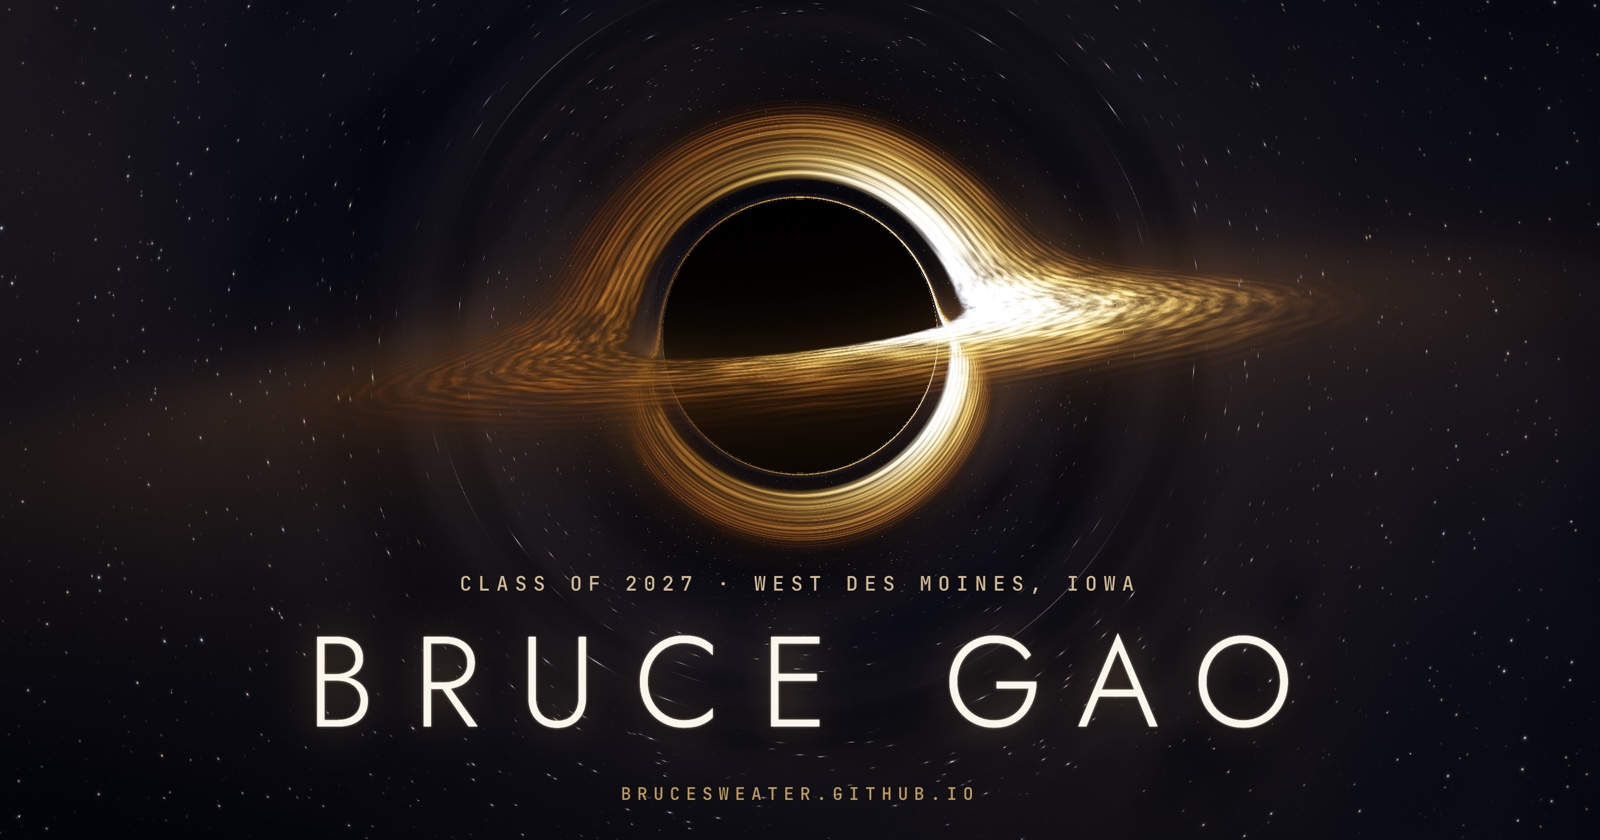
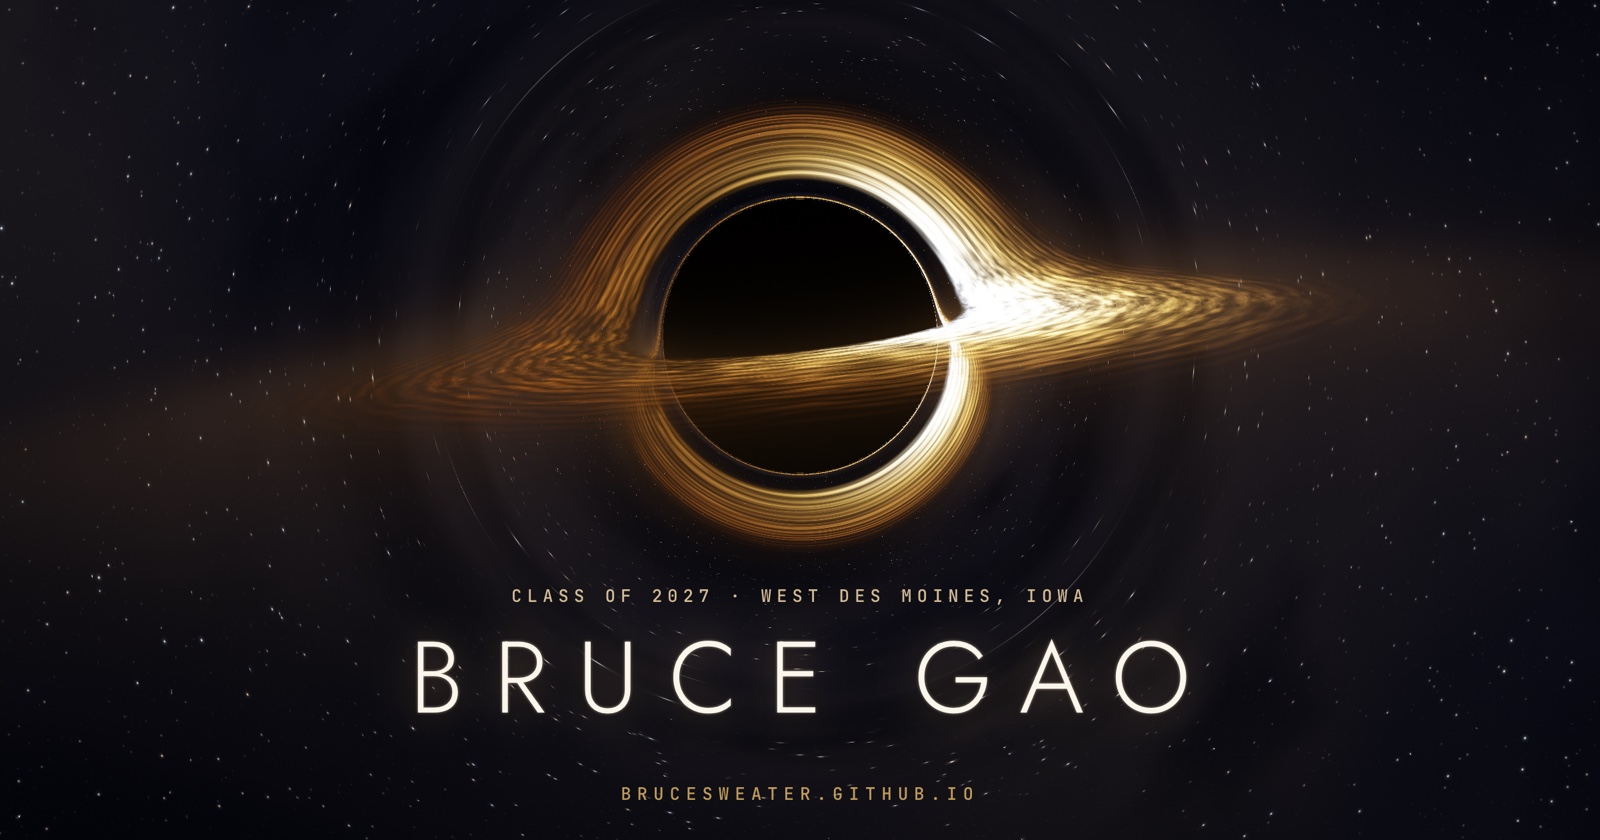
Keep the name inside LinkedIn's phone crop in the link preview
LinkedIn's phone layouts show only the middle of the picture and put a
link icon over its bottom-right corner, which covered the O in GAO. The
name is smaller now and fits even the app's tightest crop.

diff --git a/index.html b/index.html
@@ -11,7 +11,7 @@
 <meta name="twitter:card" content="summary_large_image">
 <meta property="og:url" content="https://brucesweater.github.io/">
 <link rel="canonical" href="https://brucesweater.github.io/">
-<meta property="og:image" content="https://brucesweater.github.io/og.jpg?v=hole">
+<meta property="og:image" content="https://brucesweater.github.io/og.jpg?v=hole2">
 <meta property="og:image:width" content="1600">
 <meta property="og:image:height" content="840">
 <meta property="og:image:alt" content="A gold black hole bending its own light, above the name Bruce Gao">
